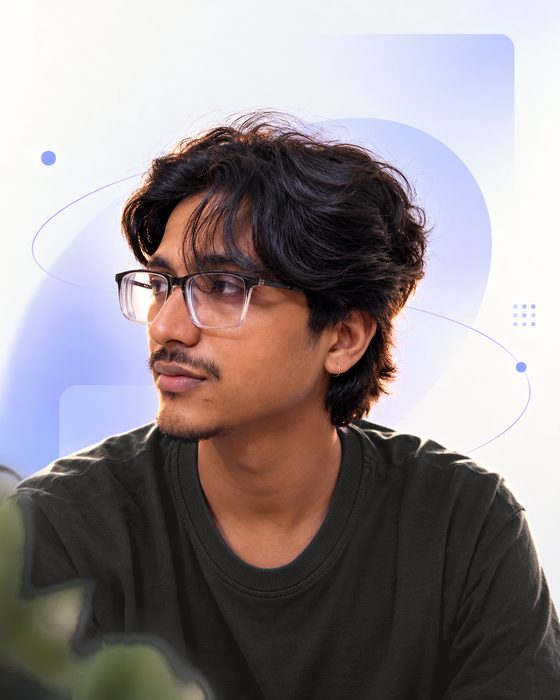
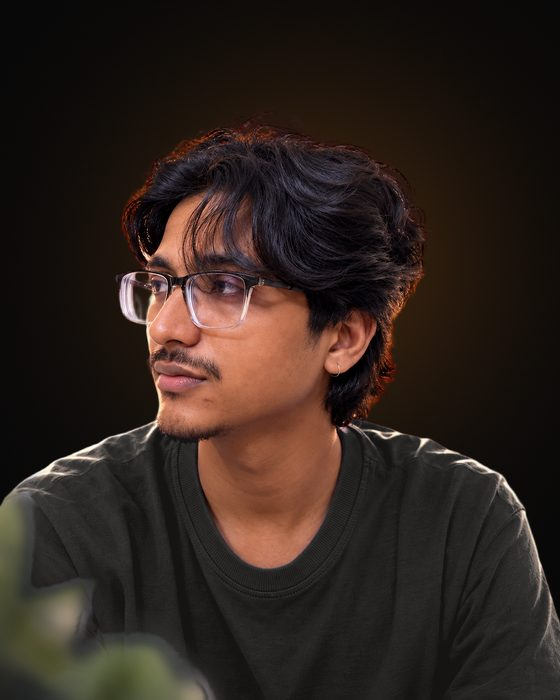
About portrait: dark backdrop instead of purple and white
The background is cut out (hair-level matte, made locally) and replaced
with the site's night ground and a soft saffron glow behind the head, so
the photo belongs to the page.

diff --git a/src/data.js b/src/data.js
@@ -346,8 +346,9 @@ export const founder = {
           aniket-560.jpg (Portrait.jsx serves it to phones via srcset).
      While this is '' the page shows a dusk monogram card (pages/about/
      Portrait.jsx) that is plainly not a photograph: never a stock face. */
-  /* Supplied 2026-10-02; t-shirt recoloured from periwinkle to charcoal at
-     his request, nothing else changed. */
+  /* Supplied 2026-10-02. At his request the t-shirt is recoloured from
+     periwinkle to charcoal and the purple-and-white backdrop is replaced
+     with the site's night ground and a soft saffron glow; he is unchanged. */
   photo: '/aniket.jpg',
 
   basedIn: 'Based in India · working remotely worldwide',
